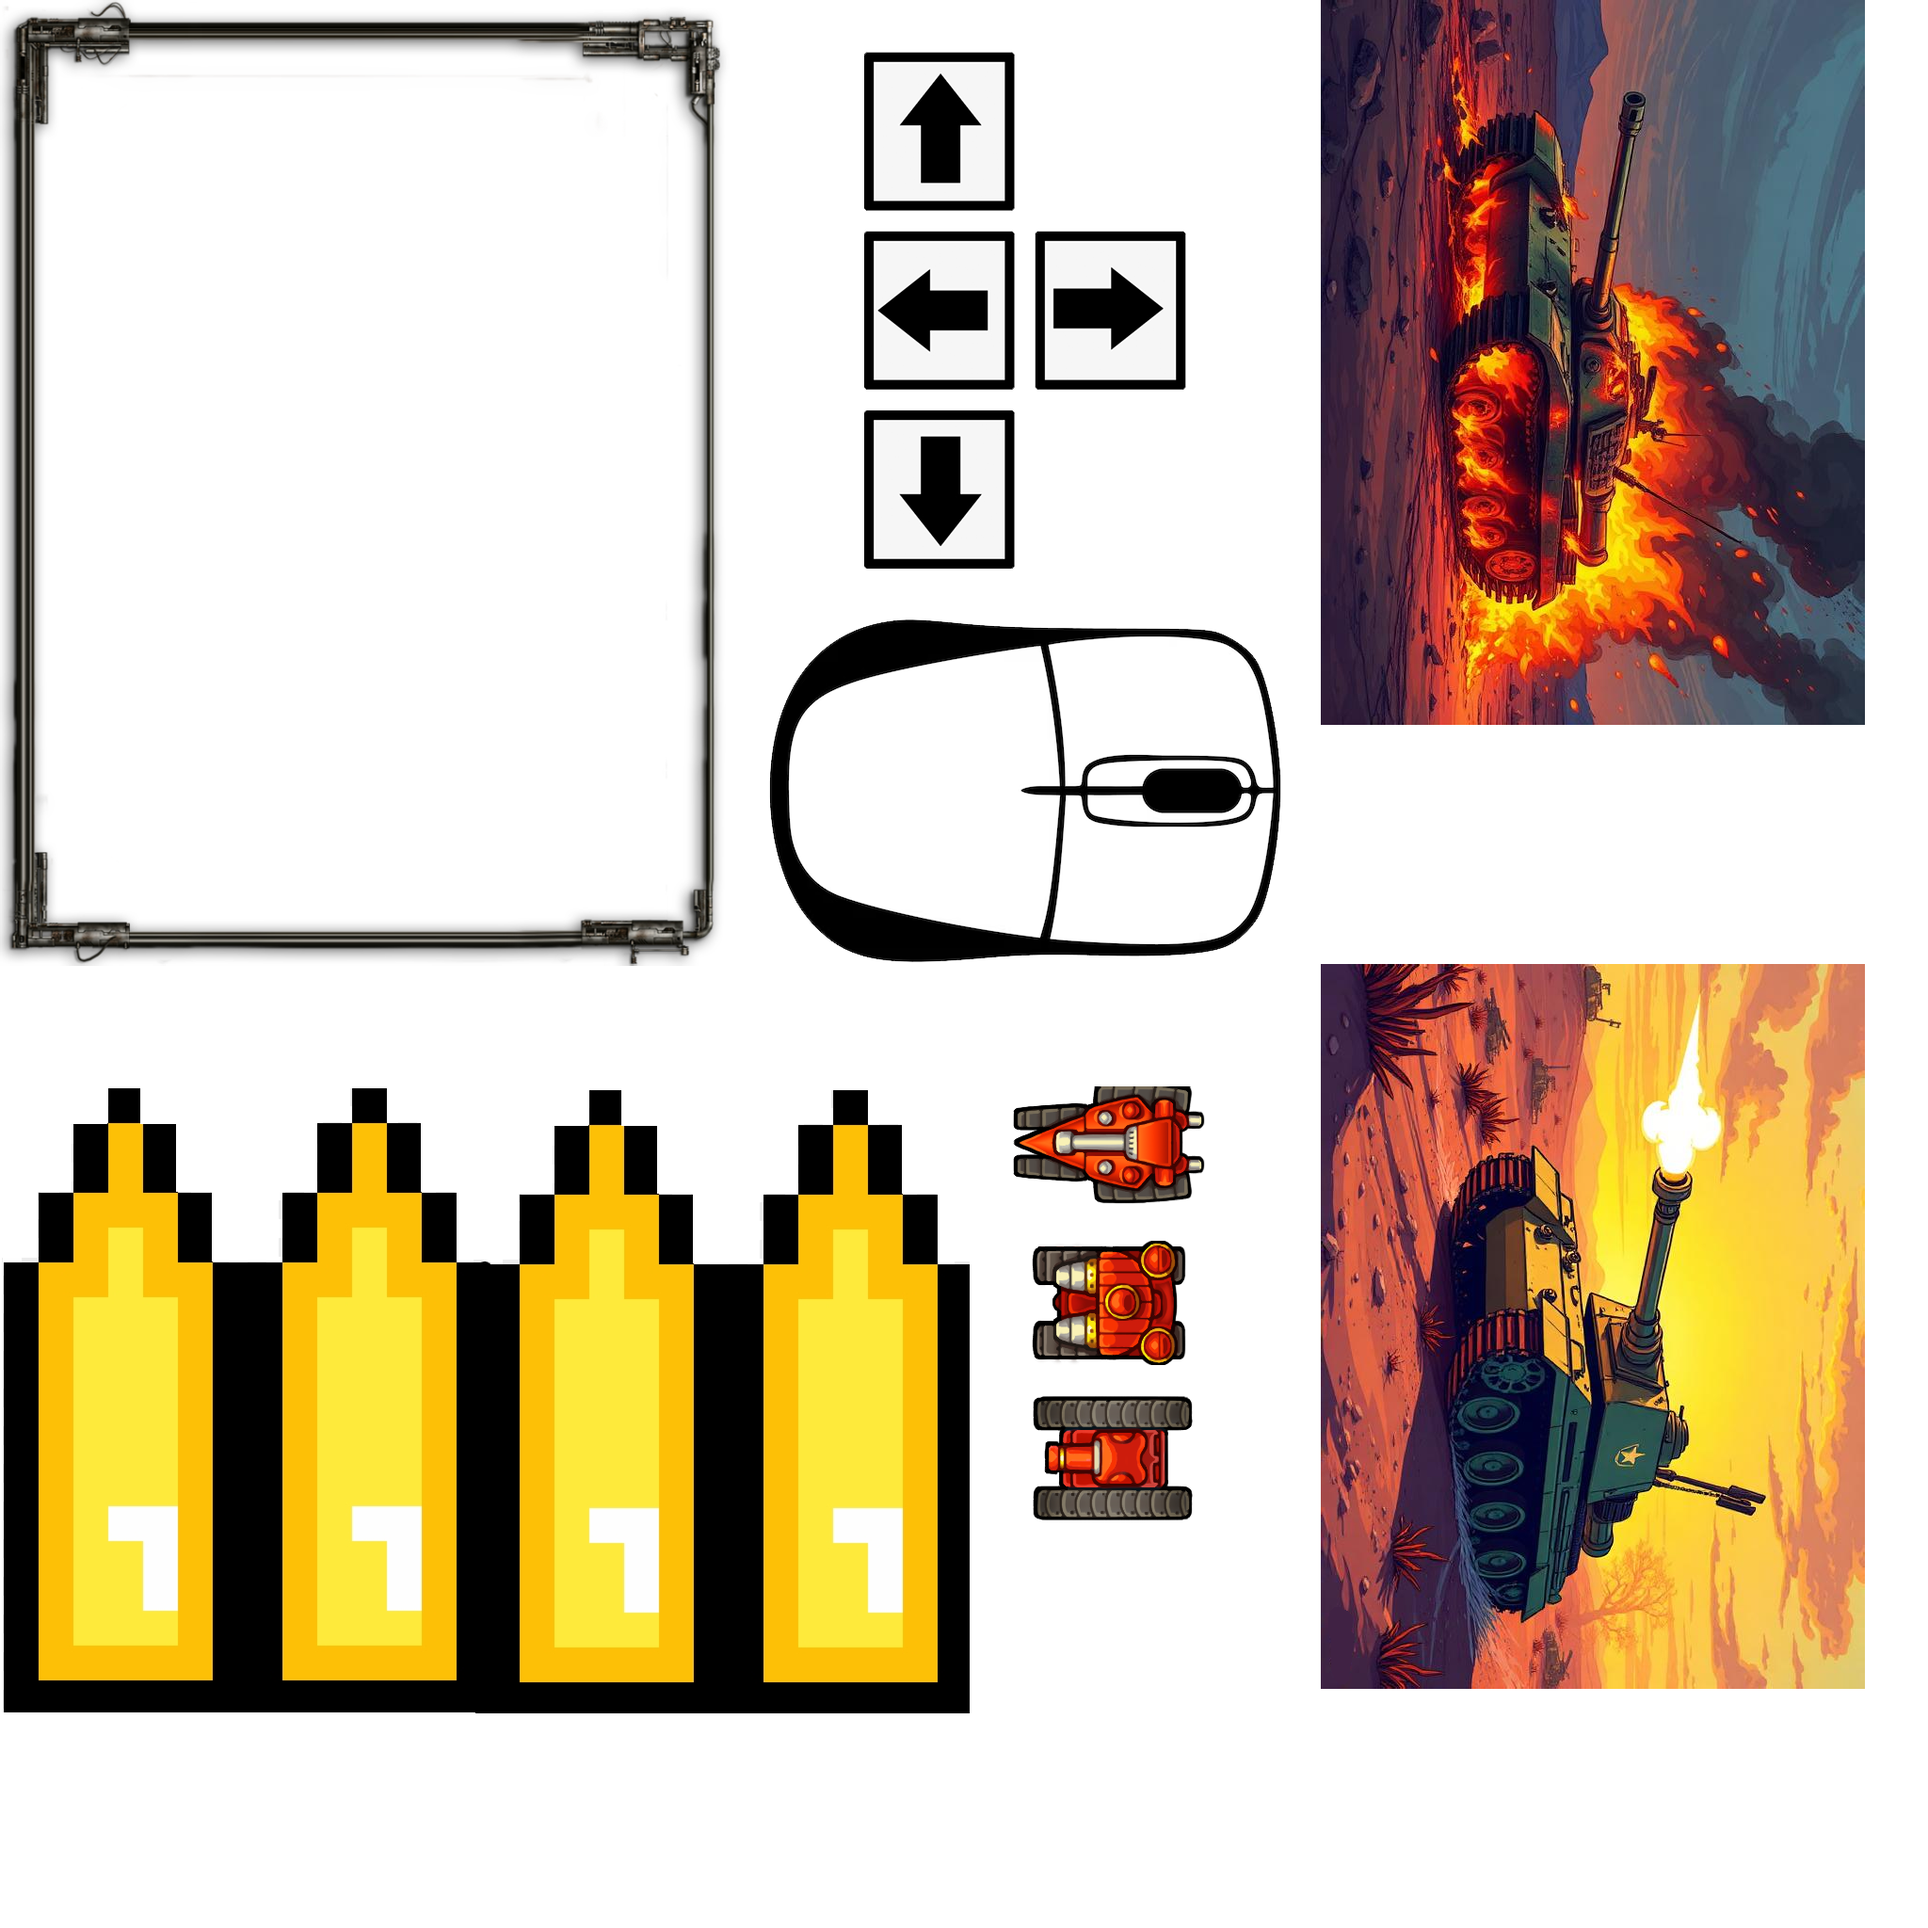
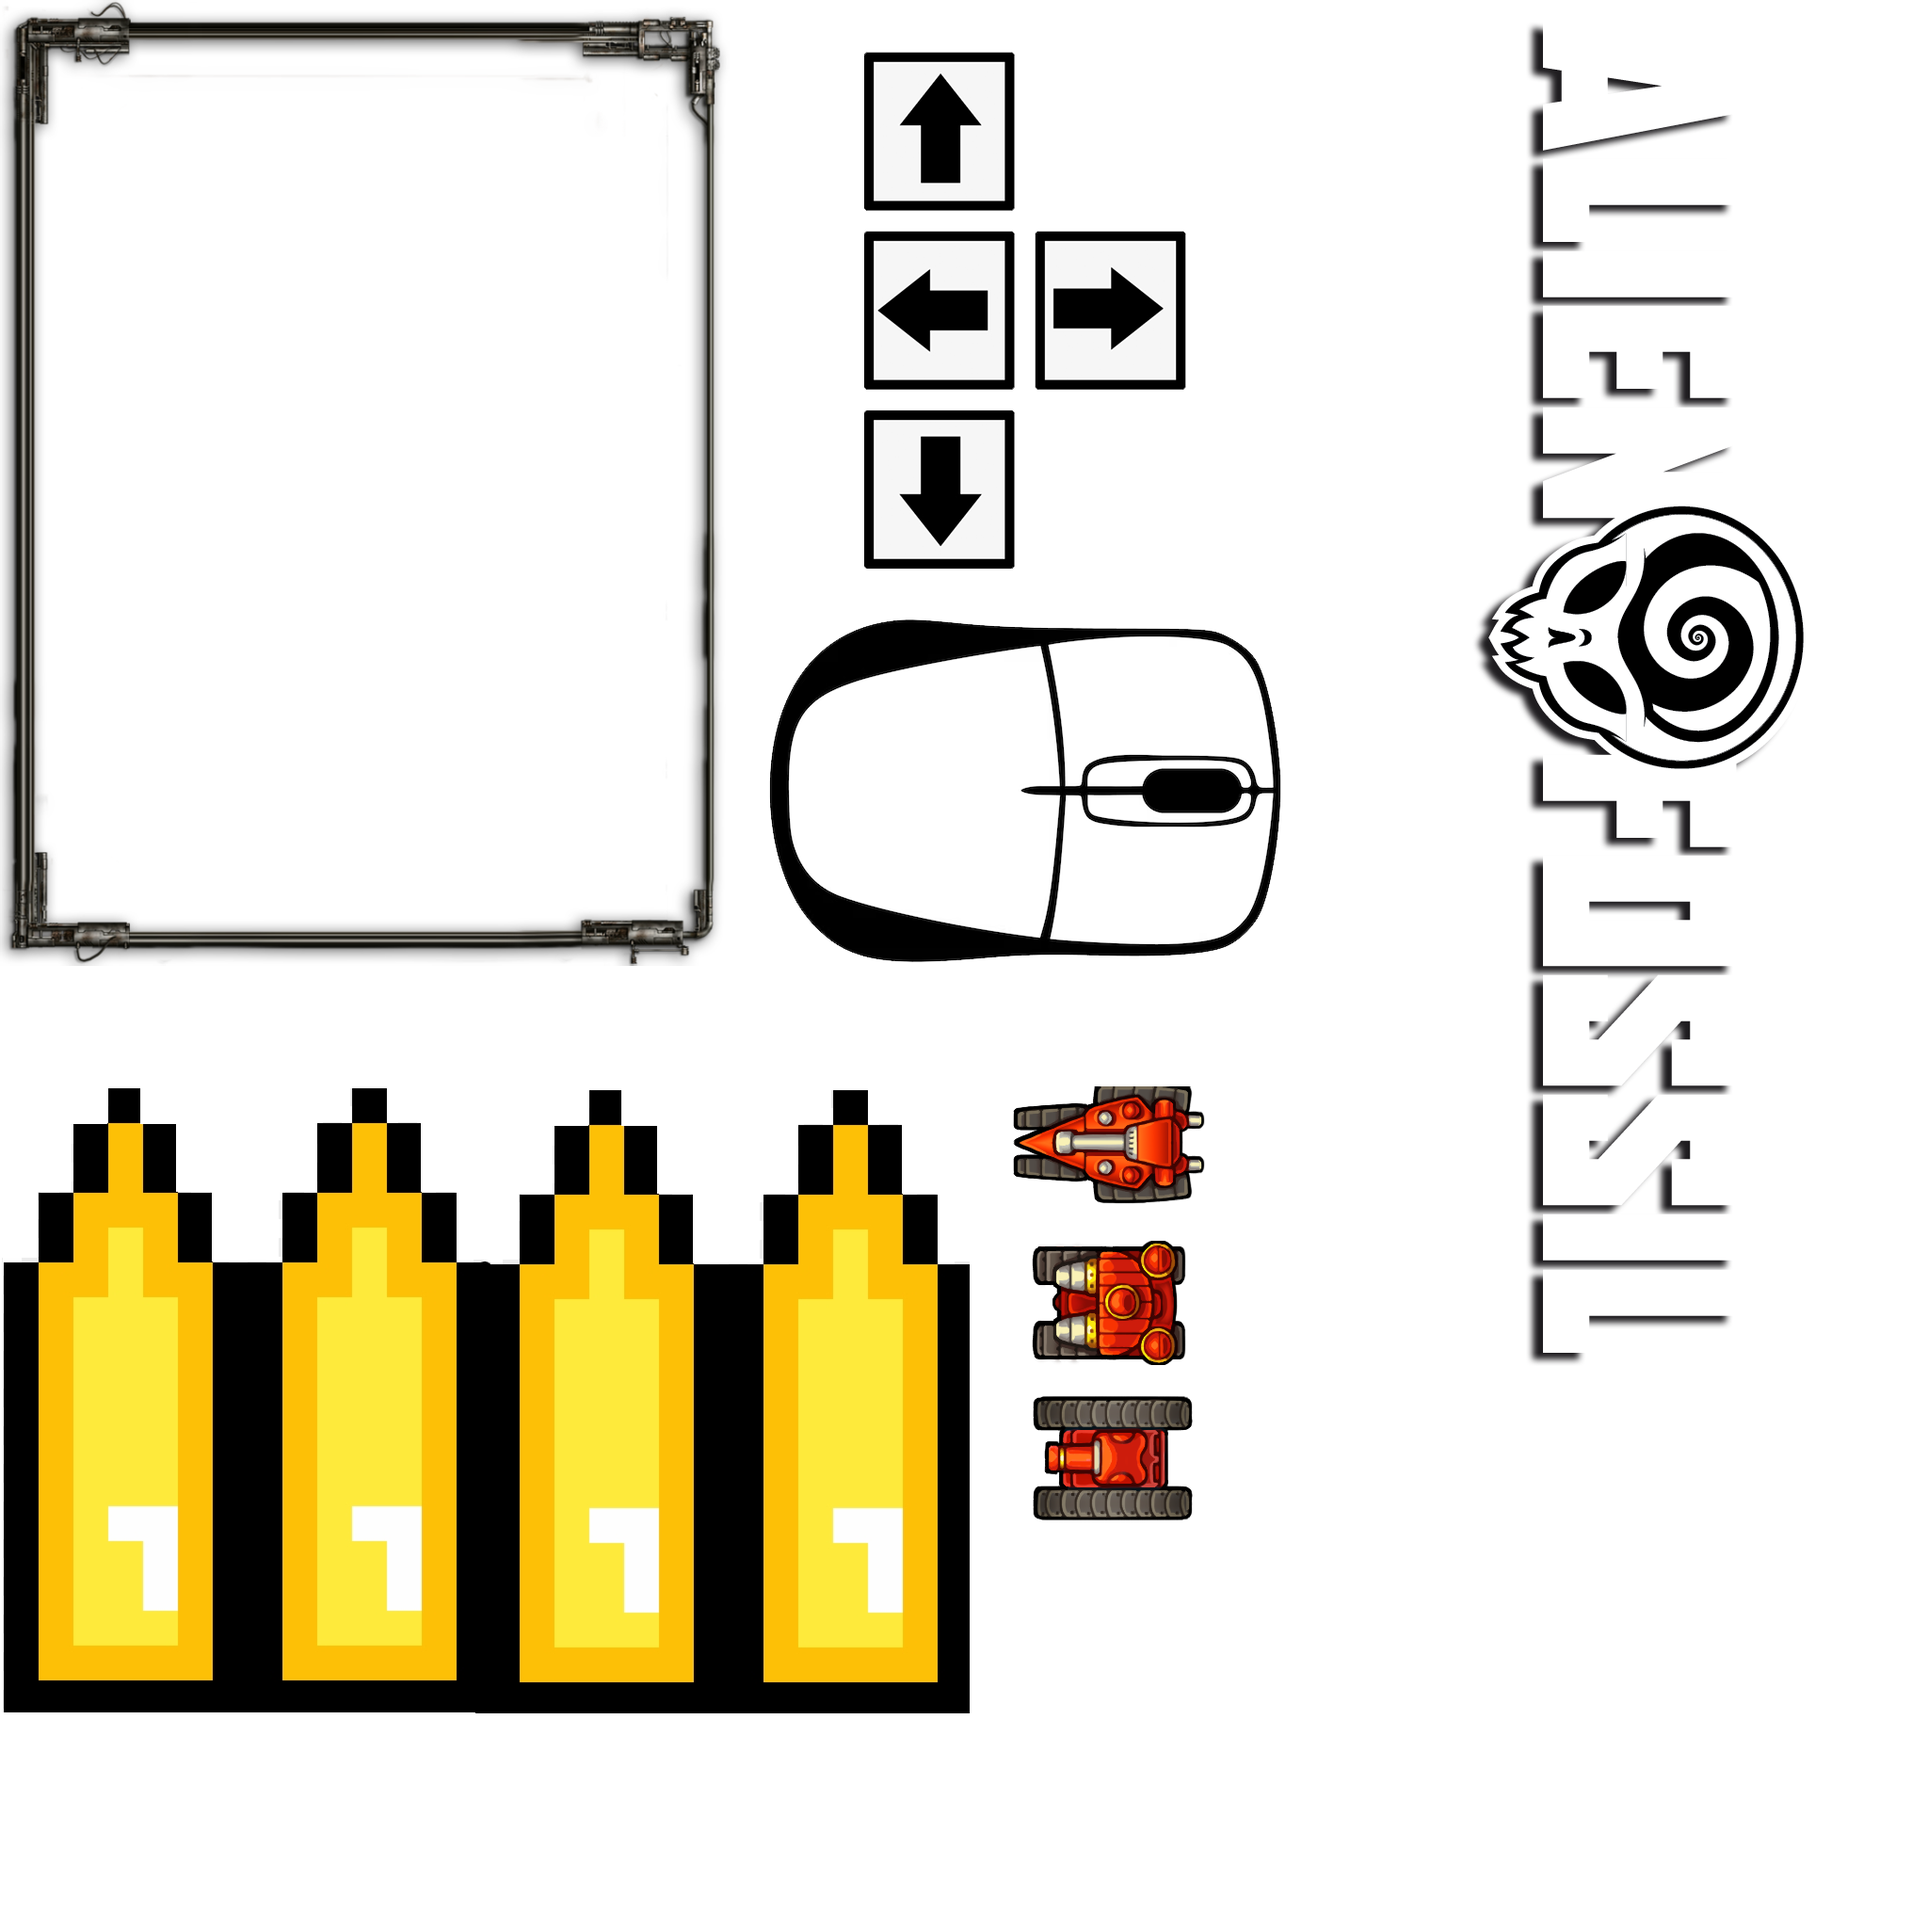
tanks update

Changed region(s): [[0.6875, 0.0, 0.9688, 0.875]]

diff --git a/minigames/tanks/scripts/objRefTable.js b/minigames/tanks/scripts/objRefTable.js
@@ -139,6 +139,7 @@ self.C3_JsPropNameTable = [
 	{ControlsText6: 0},
 	{Wall2: 0},
 	{FinalScoreText: 0},
+	{Logo: 0},
 	{HealthExists1: 0},
 	{AmmoExists: 0},
 	{Lives: 0},
@@ -195,5 +196,6 @@ self.InstanceType = {
 	ControlsText5: class extends self.ITextInstance {},
 	ControlsText6: class extends self.ITextInstance {},
 	Wall2: class extends self.ITiledBackgroundInstance {},
-	FinalScoreText: class extends self.ITextInstance {}
+	FinalScoreText: class extends self.ITextInstance {},
+	Logo: class extends self.ISpriteInstance {}
 }
